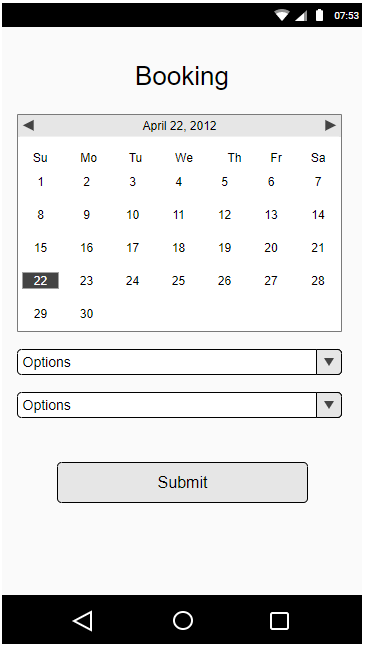
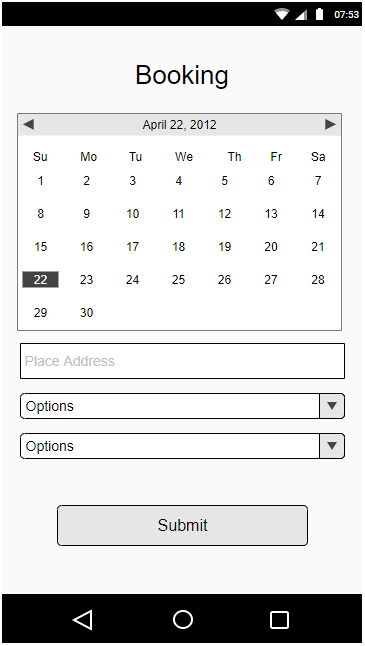
github readme 수정

diff --git a/README.md b/README.md
@@ -14,8 +14,28 @@
     ![alt text](github/system.png)
 * ## 데이터 베이스
     ![alt text](github/diagram.png)
-
-
+* ## MockUp
+    ![alt text](github/FirstPage.PNG)   
+    * 앱을 실행 했을 때 처음으로 나오는 화면.
+    
+    ![alt text](github/LogIn.PNG)
+    * 앱의 서비스를 이용하기 위한 로그인 화면.
+    
+    ![alt text](github/SingUp.PNG)
+    * 로그인을 할 수 있는 계정이 없을 경우를 위한 회원가입.
+    
+    ![alt text](github/PostView.PNG)
+    * 자신이 올린 사진, 사진과 관련된 text 리스트.
+    
+    ![alt text](github/Calendar.PNG)
+    * 자신이 공유한 일정 확인.
+    
+    ![alt text](github/MyProfile.PNG)
+    * My Profile을 확인하고 수정.
+    
+    ![alt text](github/Booking.PNG)
+    * 날짜와 시간을 정하고 장소를 예약.
+    
 # TODO
 * 11.26 Mock-up 추가
 * 11.26 데이터베이스 추가
